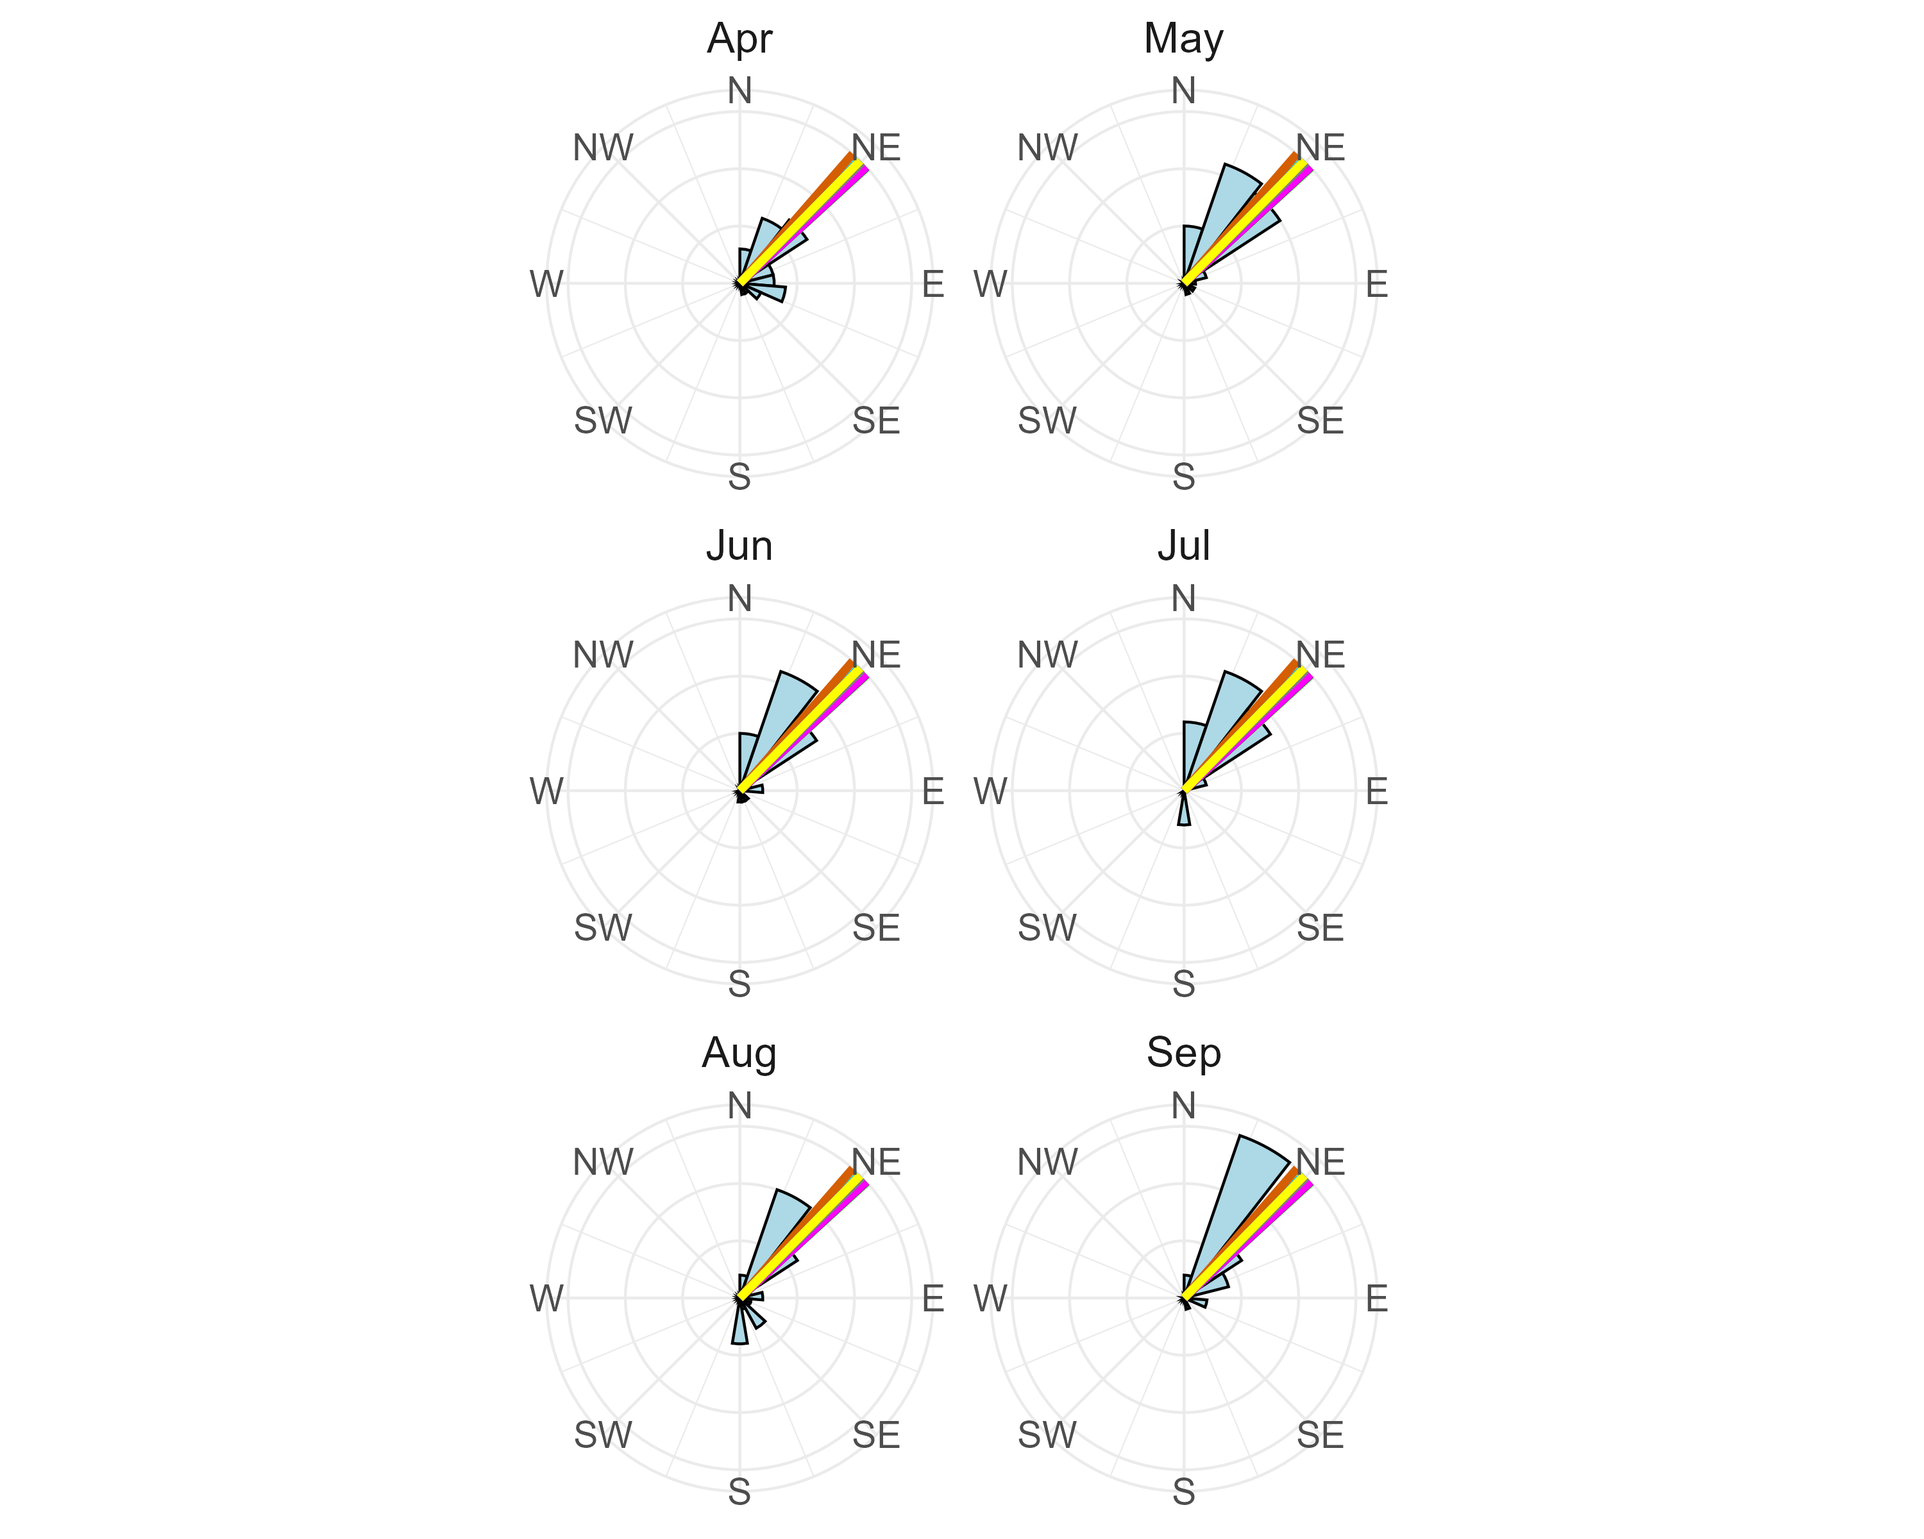
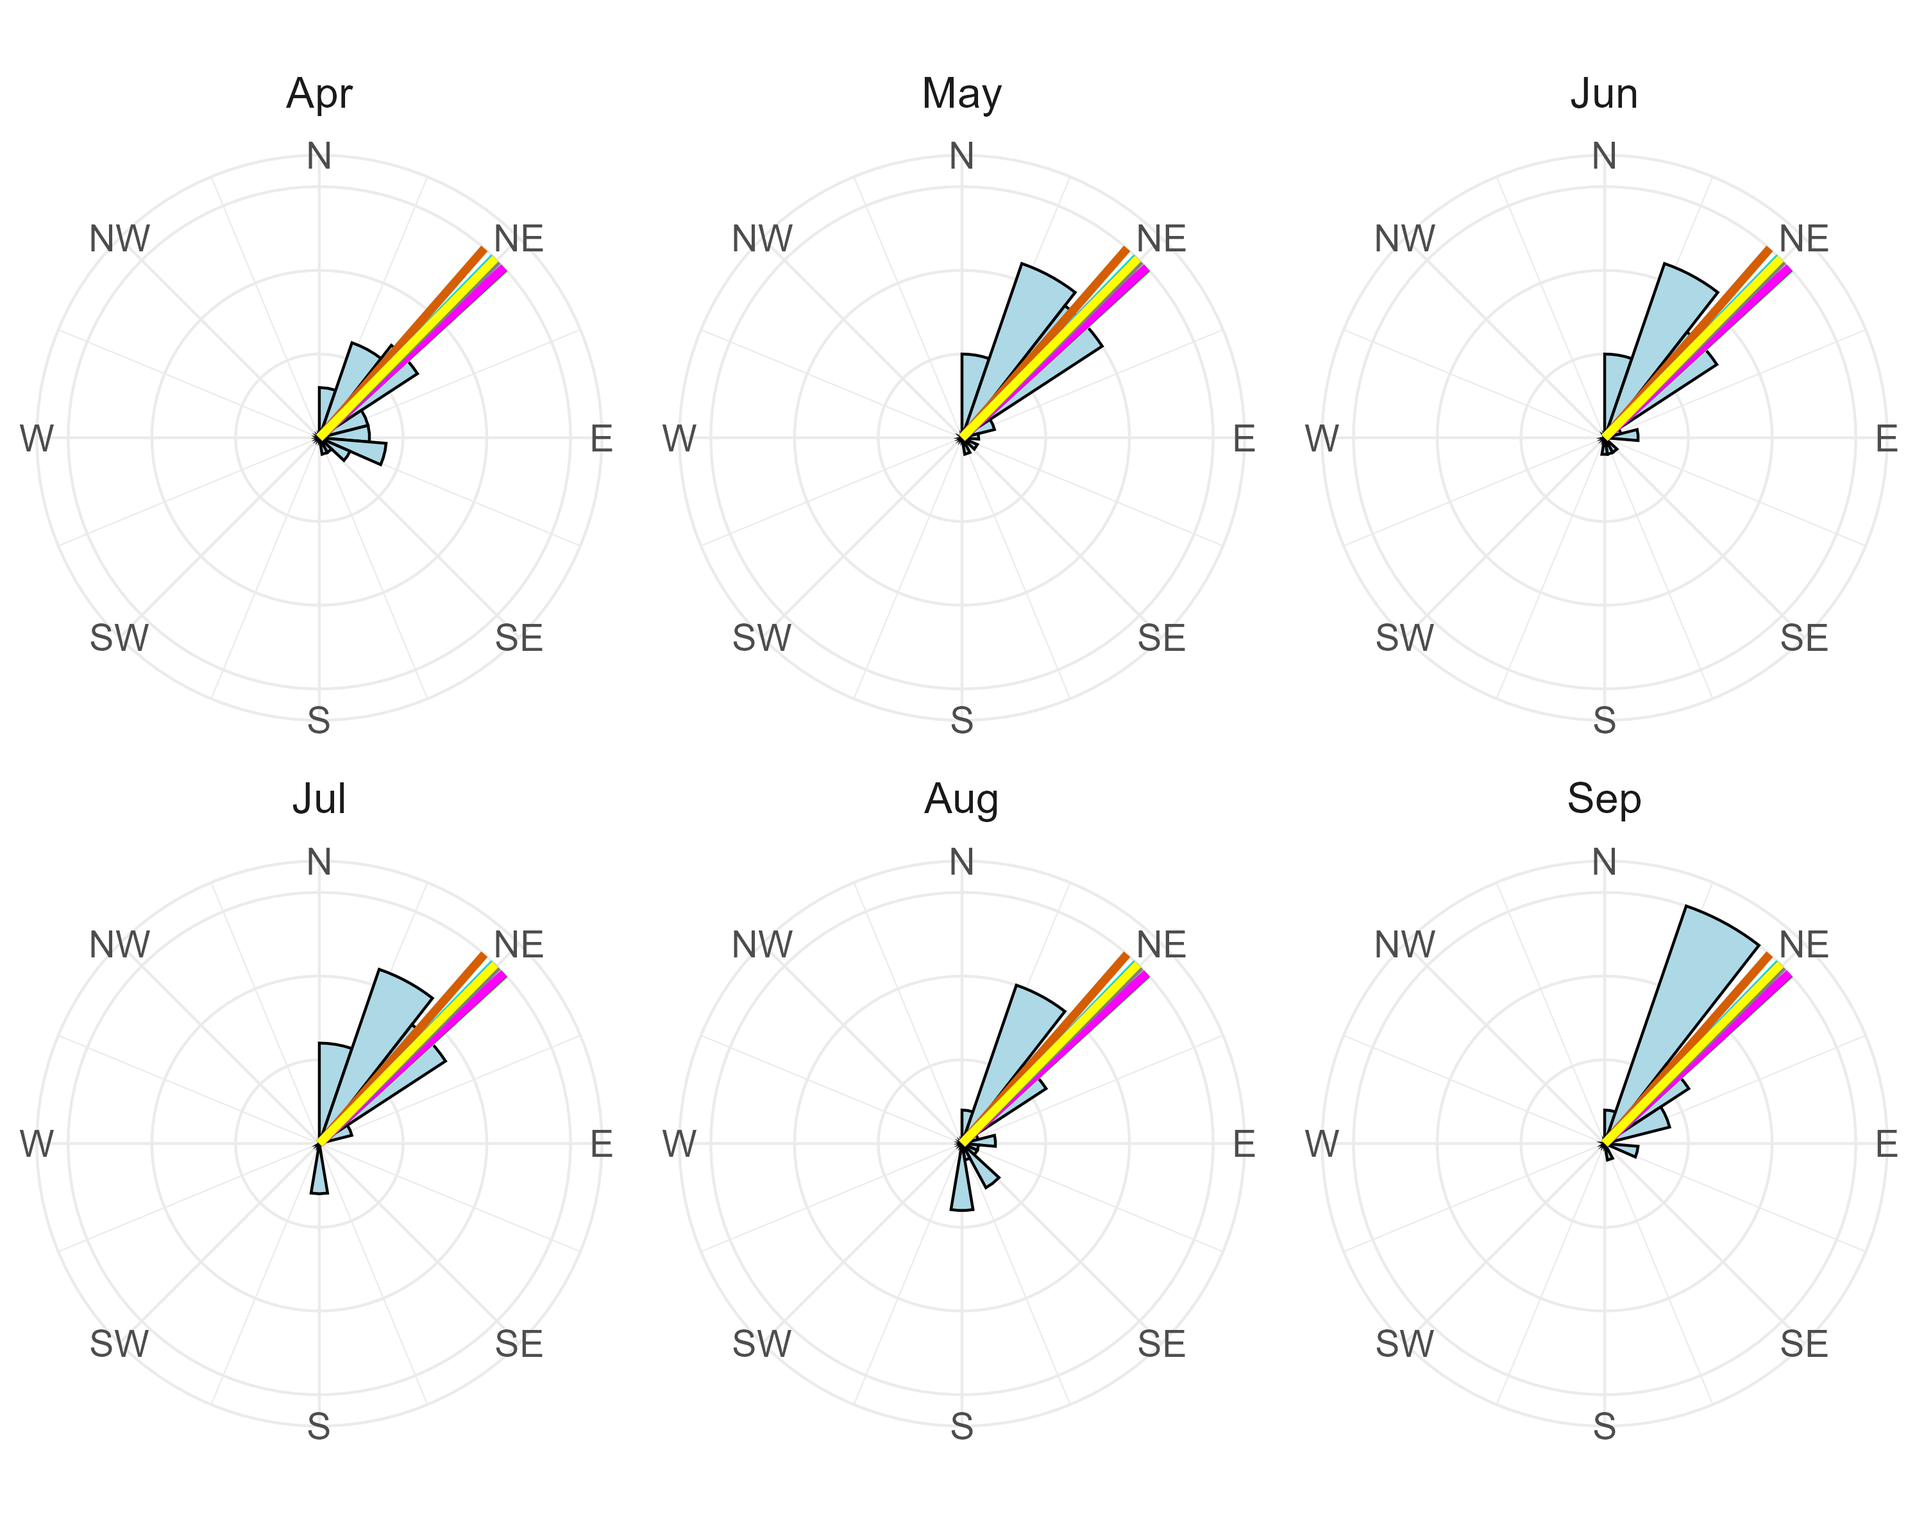
final updates

diff --git a/docs/result.html b/docs/result.html
@@ -408,7 +408,7 @@ div.csl-indent {
 <div id="fig-resultmin" class="quarto-float quarto-figure quarto-figure-center anchored">
 <figure class="quarto-float quarto-subfloat-fig figure">
 <div aria-describedby="fig-resultmin-caption-0ceaefa1-69ba-4598-a22c-09a6ac19f8ca">
-<img src="media/minimages.png" class="img-fluid figure-img" style="width:80.0%" data-ref-parent="fig-results">
+<img src="media/minimages.png" class="img-fluid figure-img" style="width:200.0%" data-ref-parent="fig-results">
 </div>
 <figcaption class="quarto-float-caption-bottom quarto-subfloat-caption quarto-subfloat-fig" id="fig-resultmin-caption-0ceaefa1-69ba-4598-a22c-09a6ac19f8ca">
 (a) Low = 0.0084
@@ -420,10 +420,10 @@ div.csl-indent {
 <div id="fig-resultmax" class="quarto-float quarto-figure quarto-figure-center anchored">
 <figure class="quarto-float quarto-subfloat-fig figure">
 <div aria-describedby="fig-resultmax-caption-0ceaefa1-69ba-4598-a22c-09a6ac19f8ca">
-<img src="media/maximages.png" class="img-fluid figure-img" style="width:80.0%" data-ref-parent="fig-results">
+<img src="media/maximages.png" class="img-fluid figure-img" style="width:200.0%" data-ref-parent="fig-results">
 </div>
 <figcaption class="quarto-float-caption-bottom quarto-subfloat-caption quarto-subfloat-fig" id="fig-resultmax-caption-0ceaefa1-69ba-4598-a22c-09a6ac19f8ca">
-(b) Medium = 0.55486
+(b) Medium = 0.5548
 </figcaption>
 </figure>
 </div>
@@ -432,7 +432,7 @@ div.csl-indent {
 <div id="fig-resultblurry" class="quarto-float quarto-figure quarto-figure-center anchored">
 <figure class="quarto-float quarto-subfloat-fig figure">
 <div aria-describedby="fig-resultblurry-caption-0ceaefa1-69ba-4598-a22c-09a6ac19f8ca">
-<img src="media/blurry_images.png" class="img-fluid figure-img" style="width:80.0%" data-ref-parent="fig-results">
+<img src="media/blurry_images.png" class="img-fluid figure-img" style="width:200.0%" data-ref-parent="fig-results">
 </div>
 <figcaption class="quarto-float-caption-bottom quarto-subfloat-caption quarto-subfloat-fig" id="fig-resultblurry-caption-0ceaefa1-69ba-4598-a22c-09a6ac19f8ca">
 (c) High = 0.9999
@@ -460,7 +460,7 @@ Figure&nbsp;5.1: Images Showing Circular Distance.
 <div id="fig-monthplots" class="quarto-float quarto-figure quarto-figure-center anchored">
 <figure class="quarto-float quarto-float-fig figure">
 <div aria-describedby="fig-monthplots-caption-0ceaefa1-69ba-4598-a22c-09a6ac19f8ca">
-<img src="media/monthplots.png" class="img-fluid figure-img" style="width:120.0%">
+<img src="media/monthplots.png" class="img-fluid figure-img" style="width:80.0%">
 </div>
 <figcaption class="quarto-float-caption-bottom quarto-float-caption quarto-float-fig" id="fig-monthplots-caption-0ceaefa1-69ba-4598-a22c-09a6ac19f8ca">
 Figure&nbsp;5.2: Wind Data and Dominant Grass Lay From Images.
@@ -981,35 +981,36 @@ Creative Computing Institute. (2024). <em>Intro to EXIF image metadata</em>. <a 
 <span id="cb2-24"><a href="#cb2-24"></a></span>
 <span id="cb2-25"><a href="#cb2-25"></a>The mean circular distance across all 65 images is 0.26 with a variance of 0.09, suggesting that on average the gradient analysis and human assessment are in moderate agreement. The minimum circular distance of 0.0006 indicates near-perfect agreement for at least one image, while the maximum of 0.999 indicates that for at least one image the two methods produced nearly perpendicular dominant direction estimates. There are a number of images where both methods closely align, but also a number where they diverge substantially. In @fig-results, the yellow arrow represents the dominant direction estimated by the gradient analysis and the black arrow represents the human assessment, illustrating examples of both low, medium, and high circular distance cases.</span>
 <span id="cb2-26"><a href="#cb2-26"></a></span>
-<span id="cb2-27"><a href="#cb2-27"></a>::: {#fig-results layout-ncol=3}</span>
-<span id="cb2-28"><a href="#cb2-28"></a></span>
-<span id="cb2-29"><a href="#cb2-29"></a><span class="al">![Low = 0.0084](media/minimages.png)</span>{#fig-resultmin width=80%}</span>
-<span id="cb2-30"><a href="#cb2-30"></a></span>
-<span id="cb2-31"><a href="#cb2-31"></a><span class="al">![Medium = 0.55486](media/maximages.png)</span>{#fig-resultmax width=80%}</span>
-<span id="cb2-32"><a href="#cb2-32"></a></span>
-<span id="cb2-33"><a href="#cb2-33"></a><span class="al">![High = 0.9999](media/blurry_images.png)</span>{#fig-resultblurry width=80%}</span>
-<span id="cb2-34"><a href="#cb2-34"></a></span>
-<span id="cb2-35"><a href="#cb2-35"></a>Images Showing Circular Distance.</span>
-<span id="cb2-36"><a href="#cb2-36"></a></span>
-<span id="cb2-37"><a href="#cb2-37"></a>:::</span>
-<span id="cb2-38"><a href="#cb2-38"></a></span>
-<span id="cb2-39"><a href="#cb2-39"></a>There are a number of reasons we assume the retrieved dominant angle differs significantly between the gradient analysis and the human assessment. </span>
-<span id="cb2-40"><a href="#cb2-40"></a></span>
-<span id="cb2-41"><a href="#cb2-41"></a>The first is that while the gradient analysis uses magnitude weighting in the circular statistics to give more influence to pixels with stronger intensity changes, this weighting is applied across all pixels in the image without first filtering out regions where no meaningful grass structure exists. Pixels in flat, texturally uniform regions such as bare soil, shadows, or background objects still produce gradient responses, and even with low magnitudes they collectively contribute to the overall dominant grass direction estimate. When many such low-magnitude pixels are spread across non-grass regions of the image, their cumulative effect can still shift the weighted circular mean away from the true grass lay direction. A human observer instinctively ignores these regions entirely, focusing attention only on areas where grass texture is clearly visible. The algorithm, by contrast, incorporates every pixel's contribution unless a magnitude threshold is explicitly applied beforehand to exclude low-confidence regions, making it more susceptible to being pulled by noise from non-grass areas of the image.</span>
-<span id="cb2-42"><a href="#cb2-42"></a></span>
-<span id="cb2-43"><a href="#cb2-43"></a>A second source of disagreement is the variety of aerial perspectives across the 65 images. Some images were captured from directly overhead, providing a clear top-down view of grass lay patterns, while others were taken at a lower angle closer to the grass surface, changing how gradient directions are expressed in the image. Image quality like in @fig-resultblurry produced blurry outlines and reduced texture clarity. In such cases the gradient analysis struggles to identify a coherent dominant direction, while human observers may still be able to use contextual cues to make a reasonable directional judgment.</span>
-<span id="cb2-44"><a href="#cb2-44"></a></span>
-<span id="cb2-45"><a href="#cb2-45"></a><span class="fu">### Comparing Dominant Grass Direction and Wind Data</span></span>
-<span id="cb2-46"><a href="#cb2-46"></a></span>
-<span id="cb2-47"><a href="#cb2-47"></a>At the SLU Living Lab, a wind station installed adjacent to the tundra vegetation records wind speed and direction at 15-minute intervals via a wind vane and anemometer. To align the wind data with the grass images, the 15-minute readings were aggregated to daily circular mean wind directions using circular statistics, accounting for the angular nature of wind direction data. This produces one representative wind direction per day that captures the overall prevailing direction across all readings that day.</span>
-<span id="cb2-48"><a href="#cb2-48"></a></span>
-<span id="cb2-49"><a href="#cb2-49"></a>To connect the grass images to the wind data, EXIF metadata that is the Exchangeable Image File Format information embedded in every digital image file was extracted from each drone image using the <span class="in">`exif`</span> package in R <span class="co">[</span><span class="ot">@cci2024</span><span class="co">]</span>. The <span class="in">`DateTimeOriginal`</span> field was retrieved, which records the exact date the image was captured by the drone, and cleaned into a standardized date variable. Since the grass images were taken in April 2023, wind data from April through September 2022 (the full growing season prior to image capture) was used for comparison. The rationale is that grass lay direction observed in April 2023 reflects the cumulative effect of winds experienced during the 2022 growing season when the grass was actively growing and being shaped by prevailing conditions.</span>
-<span id="cb2-50"><a href="#cb2-50"></a></span>
-<span id="cb2-51"><a href="#cb2-51"></a>Nine representative images with the smallest circular distances between gradient analysis and human assessment were selected, representing cases of strongest agreement between the two methods on dominant grass direction. The gradient analysis dominant direction for each of these nine images was overlaid as a colored vertical line on polar histograms of the monthly wind direction distributions from April through September 2022. </span>
-<span id="cb2-52"><a href="#cb2-52"></a>             </span>
-<span id="cb2-53"><a href="#cb2-53"></a>In @fig-monthplots, the grass lay directions from the nine selected images are represented as colored vertical lines overlaid on each month's wind direction polar histogram. The alignment between the lines and the dominant bars of the wind histogram indicates months where grass lay direction corresponds well with prevailing wind patterns. This alignment is most evident in the spring months of April and May, which represent the early growing season when grass is most actively responding to wind exposure. This correspondence supports the use of grass lay direction as a proxy for prevailing wind direction, particularly during the growing season.</span>
-<span id="cb2-54"><a href="#cb2-54"></a></span>
-<span id="cb2-55"><a href="#cb2-55"></a><span class="al">![Wind Data and Dominant Grass Lay From Images.](media/monthplots.png)</span>{#fig-monthplots width=120%}</span></code></pre></div><button title="Copy to Clipboard" class="code-copy-button" data-in-quarto-modal=""><i class="bi"></i></button></div>
+<span id="cb2-27"><a href="#cb2-27"></a></span>
+<span id="cb2-28"><a href="#cb2-28"></a>::: {#fig-results layout-ncol=3}</span>
+<span id="cb2-29"><a href="#cb2-29"></a></span>
+<span id="cb2-30"><a href="#cb2-30"></a><span class="al">![Low = 0.0084](media/minimages.png)</span>{#fig-resultmin width=200%}</span>
+<span id="cb2-31"><a href="#cb2-31"></a></span>
+<span id="cb2-32"><a href="#cb2-32"></a><span class="al">![Medium = 0.5548](media/maximages.png)</span>{#fig-resultmax width=200%}</span>
+<span id="cb2-33"><a href="#cb2-33"></a></span>
+<span id="cb2-34"><a href="#cb2-34"></a><span class="al">![High = 0.9999](media/blurry_images.png)</span>{#fig-resultblurry width=200%}</span>
+<span id="cb2-35"><a href="#cb2-35"></a></span>
+<span id="cb2-36"><a href="#cb2-36"></a>Images Showing Circular Distance.</span>
+<span id="cb2-37"><a href="#cb2-37"></a></span>
+<span id="cb2-38"><a href="#cb2-38"></a>:::</span>
+<span id="cb2-39"><a href="#cb2-39"></a></span>
+<span id="cb2-40"><a href="#cb2-40"></a>There are a number of reasons we assume the retrieved dominant angle differs significantly between the gradient analysis and the human assessment. </span>
+<span id="cb2-41"><a href="#cb2-41"></a></span>
+<span id="cb2-42"><a href="#cb2-42"></a>The first is that while the gradient analysis uses magnitude weighting in the circular statistics to give more influence to pixels with stronger intensity changes, this weighting is applied across all pixels in the image without first filtering out regions where no meaningful grass structure exists. Pixels in flat, texturally uniform regions such as bare soil, shadows, or background objects still produce gradient responses, and even with low magnitudes they collectively contribute to the overall dominant grass direction estimate. When many such low-magnitude pixels are spread across non-grass regions of the image, their cumulative effect can still shift the weighted circular mean away from the true grass lay direction. A human observer instinctively ignores these regions entirely, focusing attention only on areas where grass texture is clearly visible. The algorithm, by contrast, incorporates every pixel's contribution unless a magnitude threshold is explicitly applied beforehand to exclude low-confidence regions, making it more susceptible to being pulled by noise from non-grass areas of the image.</span>
+<span id="cb2-43"><a href="#cb2-43"></a></span>
+<span id="cb2-44"><a href="#cb2-44"></a>A second source of disagreement is the variety of aerial perspectives across the 65 images. Some images were captured from directly overhead, providing a clear top-down view of grass lay patterns, while others were taken at a lower angle closer to the grass surface, changing how gradient directions are expressed in the image. Image quality like in @fig-resultblurry produced blurry outlines and reduced texture clarity. In such cases the gradient analysis struggles to identify a coherent dominant direction, while human observers may still be able to use contextual cues to make a reasonable directional judgment.</span>
+<span id="cb2-45"><a href="#cb2-45"></a></span>
+<span id="cb2-46"><a href="#cb2-46"></a><span class="fu">### Comparing Dominant Grass Direction and Wind Data</span></span>
+<span id="cb2-47"><a href="#cb2-47"></a></span>
+<span id="cb2-48"><a href="#cb2-48"></a>At the SLU Living Lab, a wind station installed adjacent to the tundra vegetation records wind speed and direction at 15-minute intervals via a wind vane and anemometer. To align the wind data with the grass images, the 15-minute readings were aggregated to daily circular mean wind directions using circular statistics, accounting for the angular nature of wind direction data. This produces one representative wind direction per day that captures the overall prevailing direction across all readings that day.</span>
+<span id="cb2-49"><a href="#cb2-49"></a></span>
+<span id="cb2-50"><a href="#cb2-50"></a>To connect the grass images to the wind data, EXIF metadata that is the Exchangeable Image File Format information embedded in every digital image file was extracted from each drone image using the <span class="in">`exif`</span> package in R <span class="co">[</span><span class="ot">@cci2024</span><span class="co">]</span>. The <span class="in">`DateTimeOriginal`</span> field was retrieved, which records the exact date the image was captured by the drone, and cleaned into a standardized date variable. Since the grass images were taken in April 2023, wind data from April through September 2022 (the full growing season prior to image capture) was used for comparison. The rationale is that grass lay direction observed in April 2023 reflects the cumulative effect of winds experienced during the 2022 growing season when the grass was actively growing and being shaped by prevailing conditions.</span>
+<span id="cb2-51"><a href="#cb2-51"></a></span>
+<span id="cb2-52"><a href="#cb2-52"></a>Nine representative images with the smallest circular distances between gradient analysis and human assessment were selected, representing cases of strongest agreement between the two methods on dominant grass direction. The gradient analysis dominant direction for each of these nine images was overlaid as a colored vertical line on polar histograms of the monthly wind direction distributions from April through September 2022. </span>
+<span id="cb2-53"><a href="#cb2-53"></a>             </span>
+<span id="cb2-54"><a href="#cb2-54"></a>In @fig-monthplots, the grass lay directions from the nine selected images are represented as colored vertical lines overlaid on each month's wind direction polar histogram. The alignment between the lines and the dominant bars of the wind histogram indicates months where grass lay direction corresponds well with prevailing wind patterns. This alignment is most evident in the spring months of April and May, which represent the early growing season when grass is most actively responding to wind exposure. This correspondence supports the use of grass lay direction as a proxy for prevailing wind direction, particularly during the growing season.</span>
+<span id="cb2-55"><a href="#cb2-55"></a></span>
+<span id="cb2-56"><a href="#cb2-56"></a><span class="al">![Wind Data and Dominant Grass Lay From Images.](media/monthplots.png)</span>{#fig-monthplots width=80%}</span></code></pre></div><button title="Copy to Clipboard" class="code-copy-button" data-in-quarto-modal=""><i class="bi"></i></button></div>
 </div></div></div></div></div>
 </div> <!-- /content -->
 
